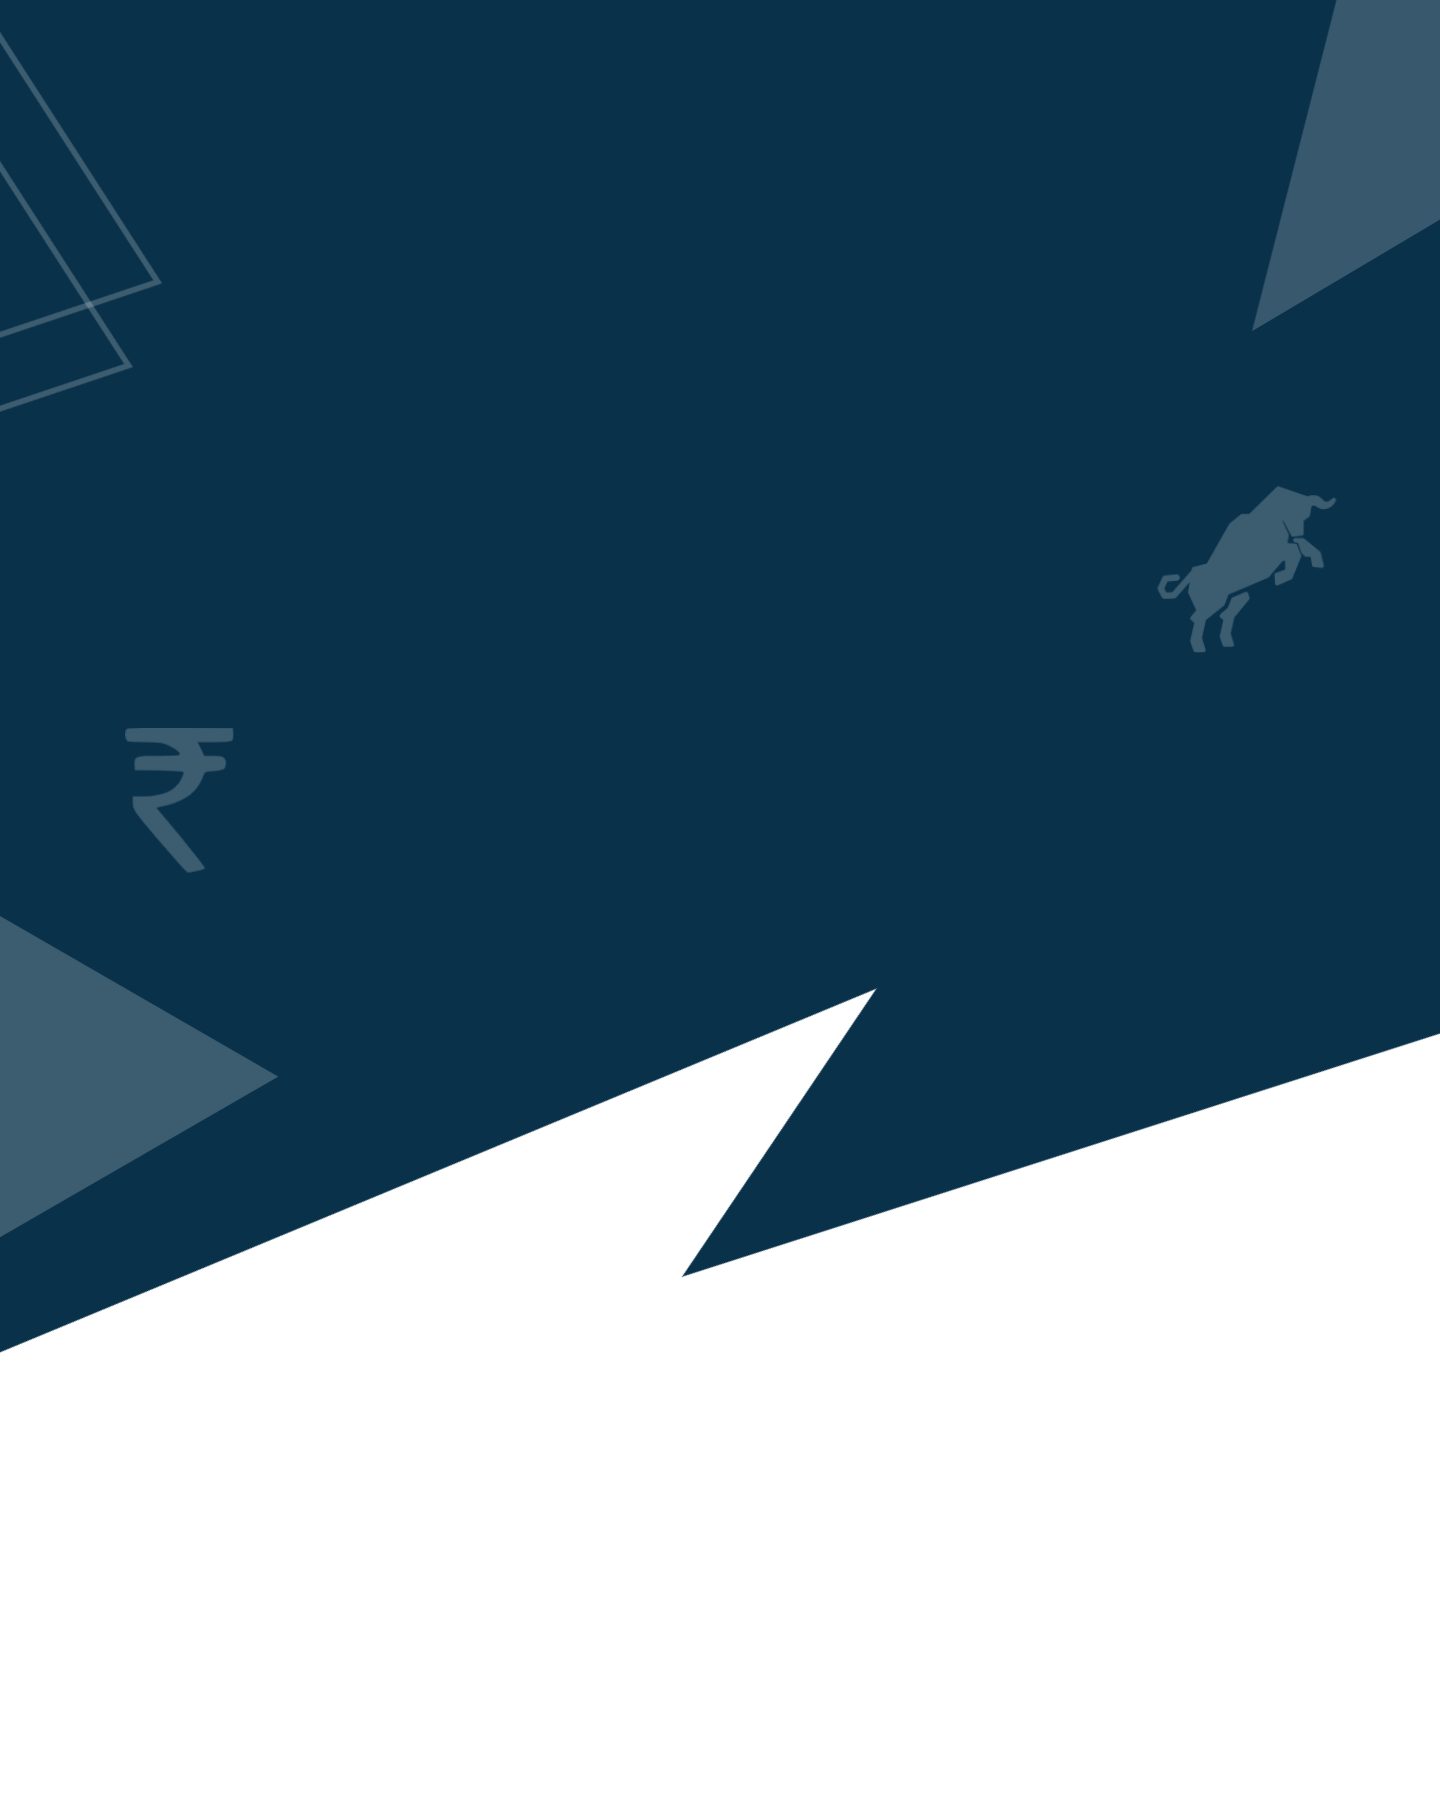
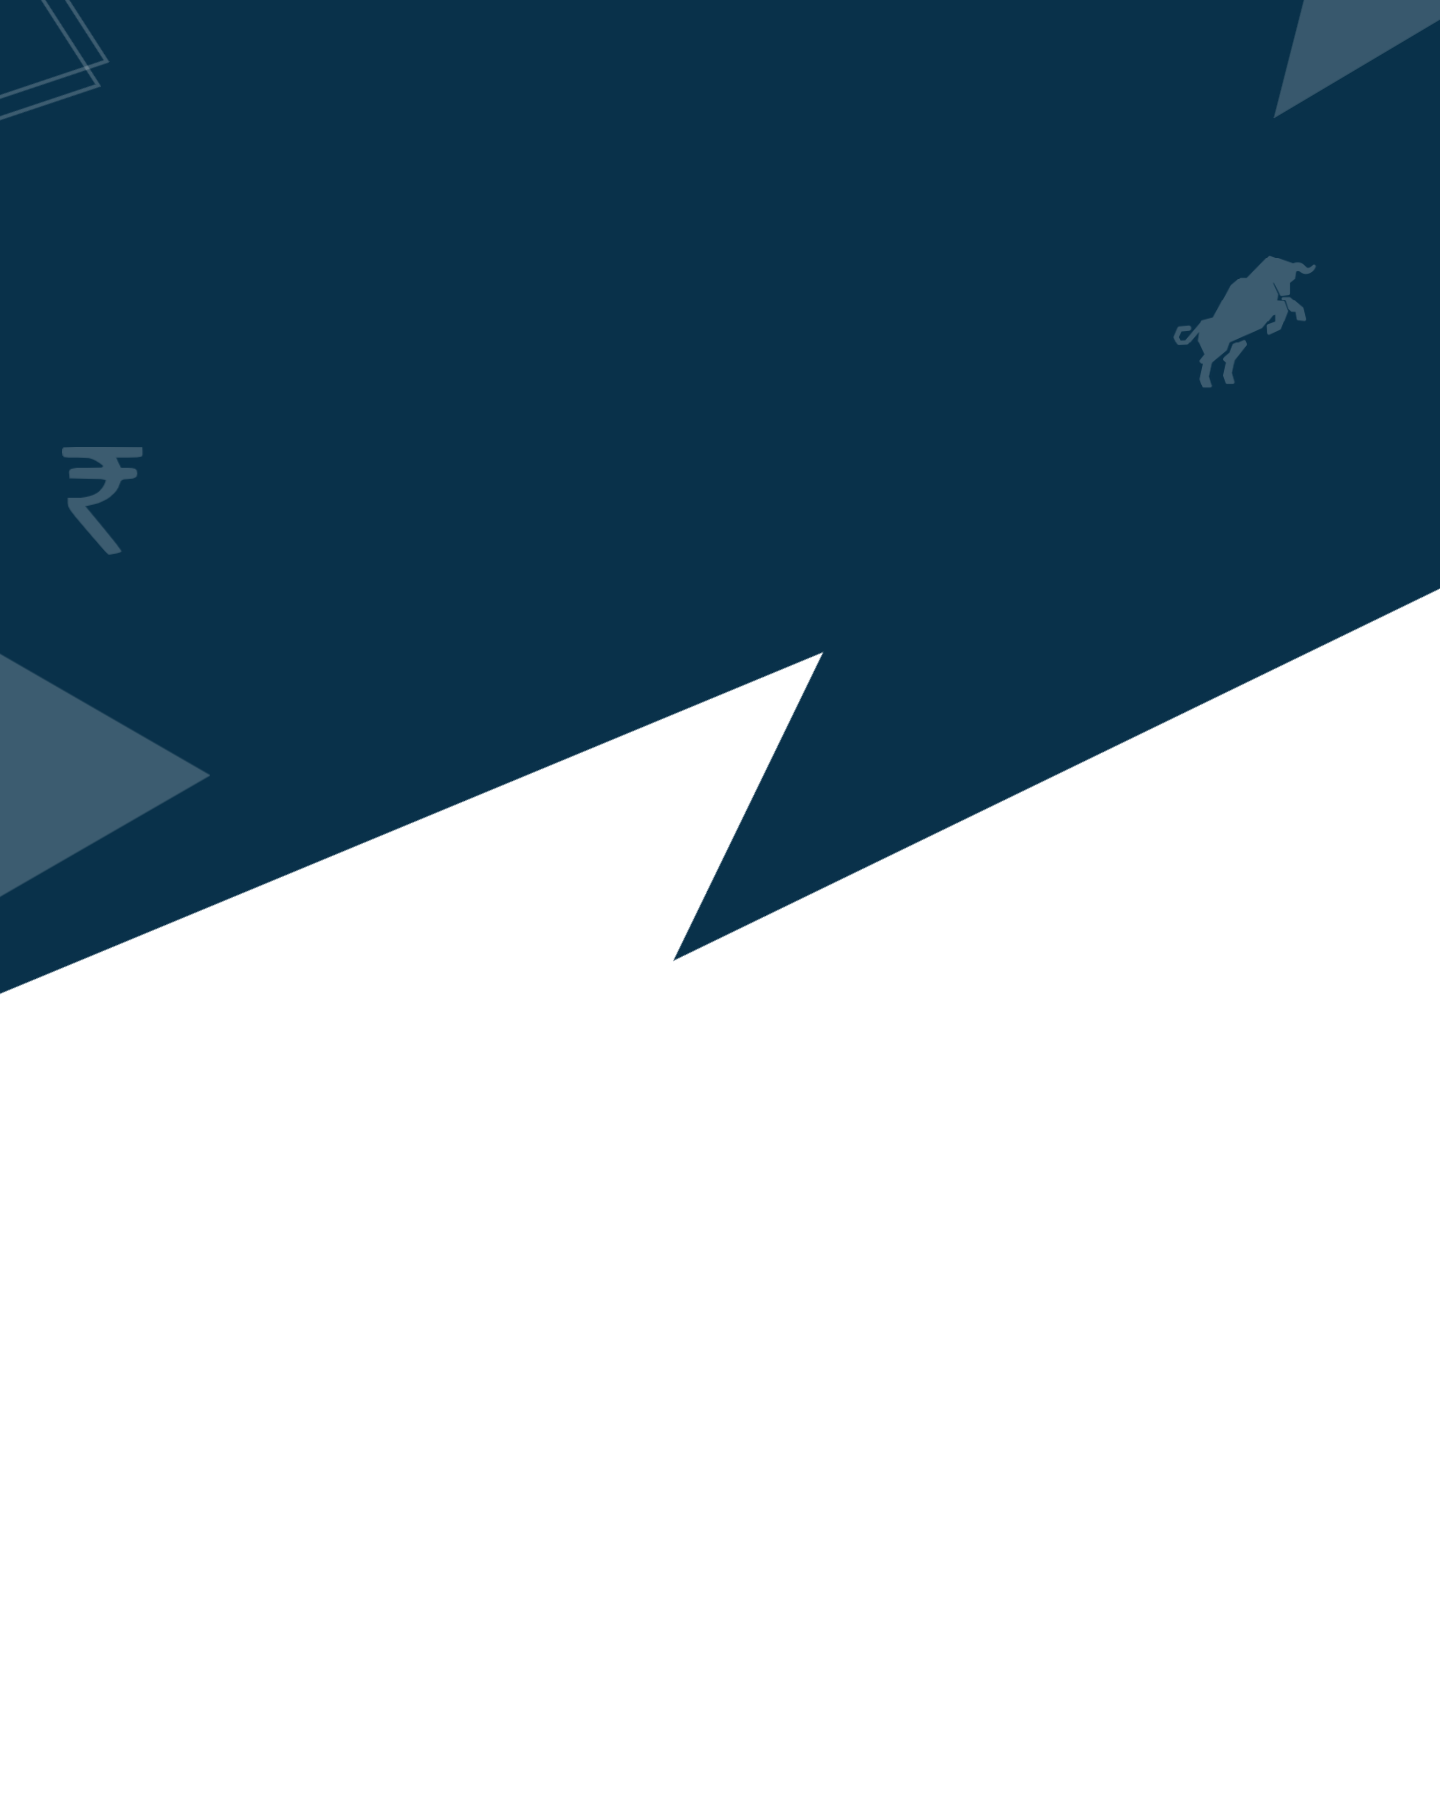
11 commit

diff --git a/css/tailwind.css b/css/tailwind.css
@@ -1,5 +1,5 @@
 .vintage-background{
-   background-image: url("../img/backgrounds/vintage-background1.png")!important;
+   background-image: url("../img/backgrounds/vintage-background.png")!important;
    background-repeat: no-repeat!important;
    background-size:cover!important;
    background-attachment: scroll !important;
